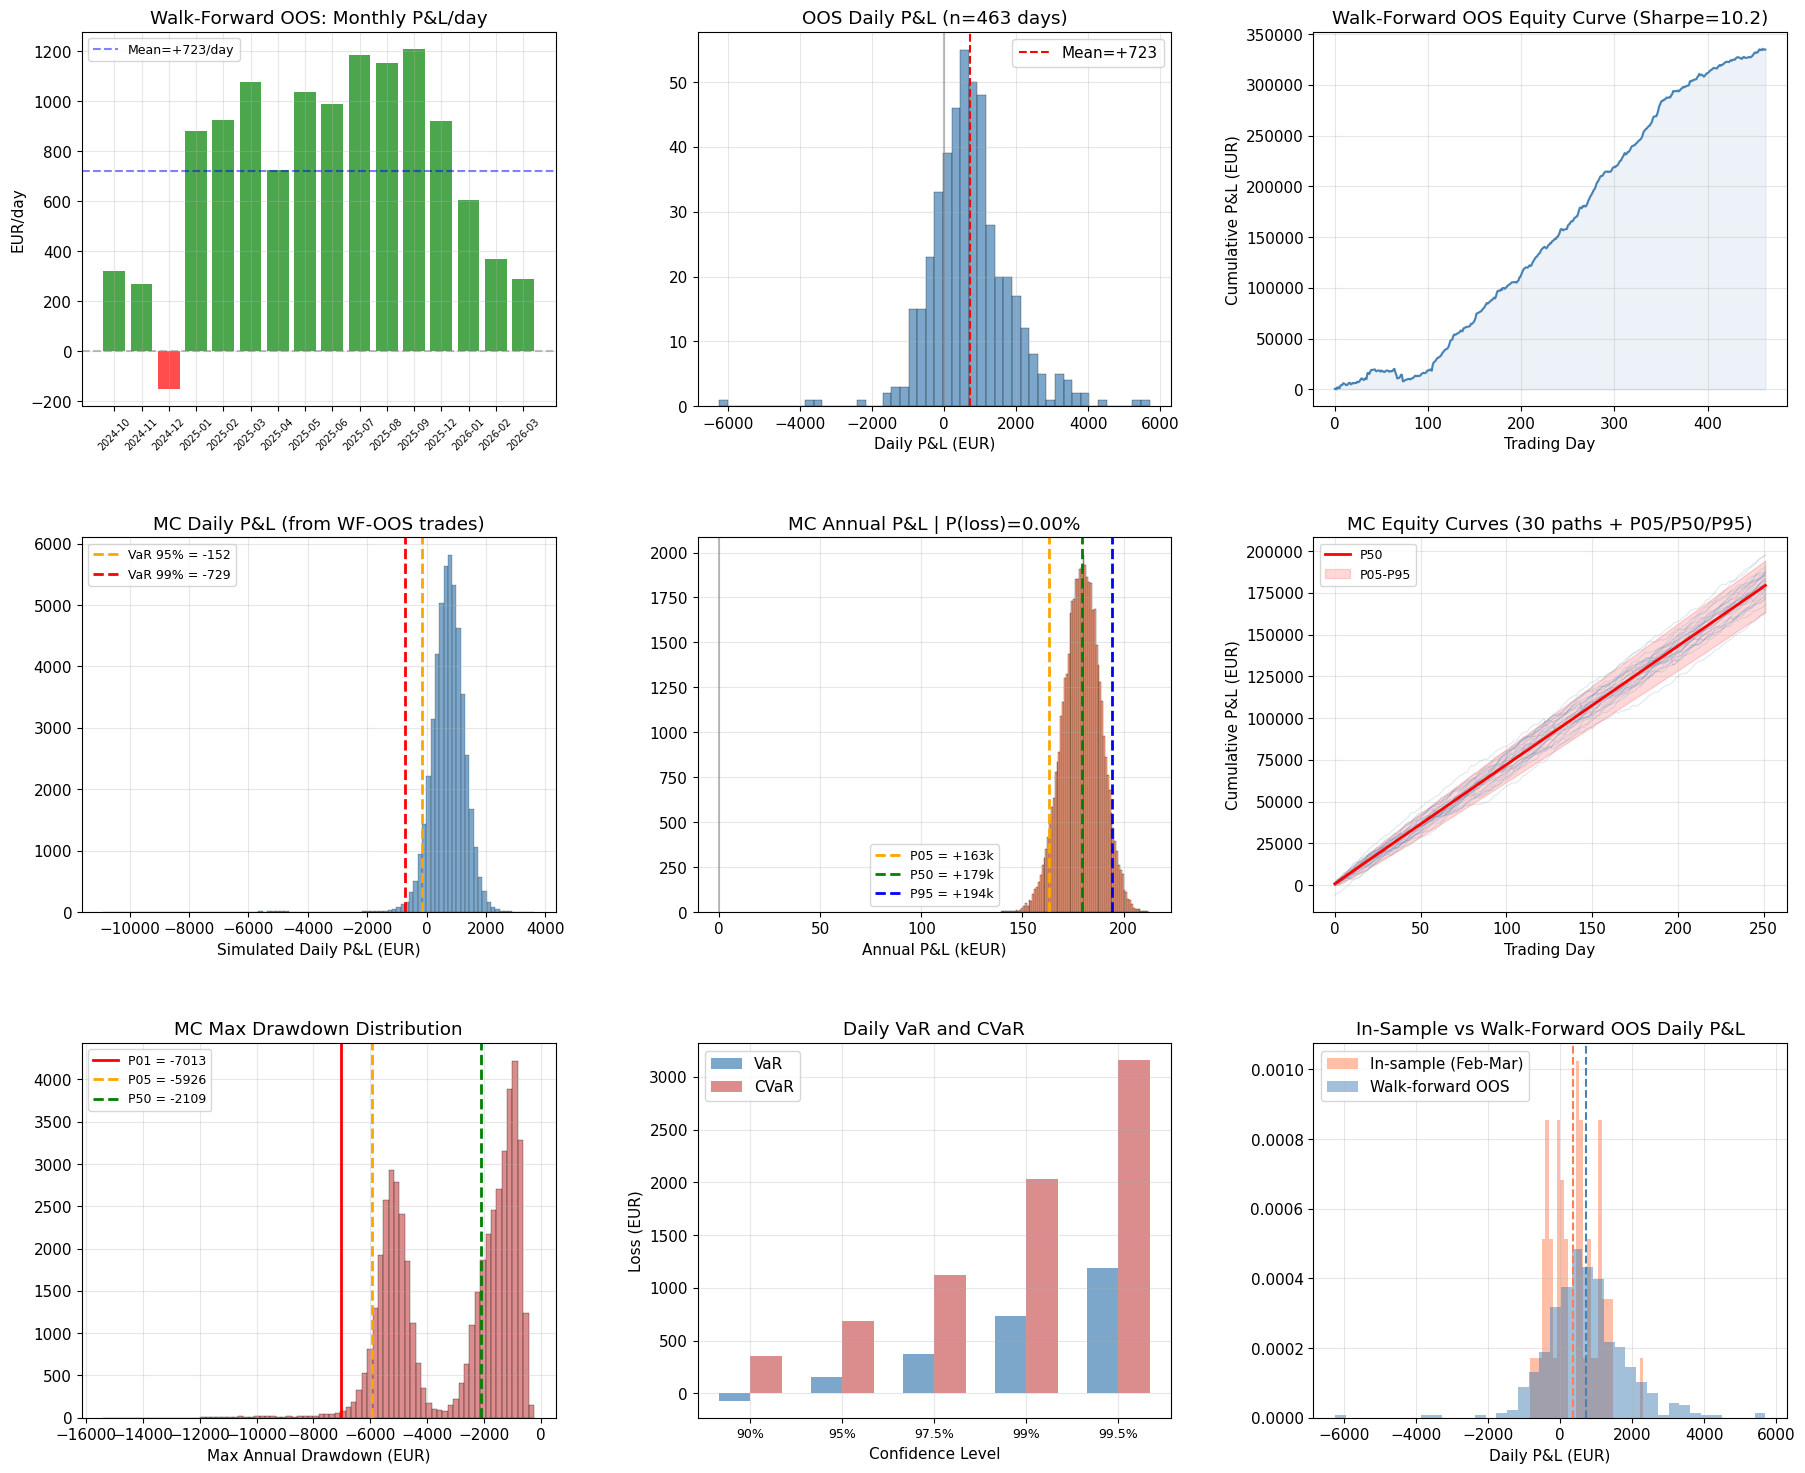
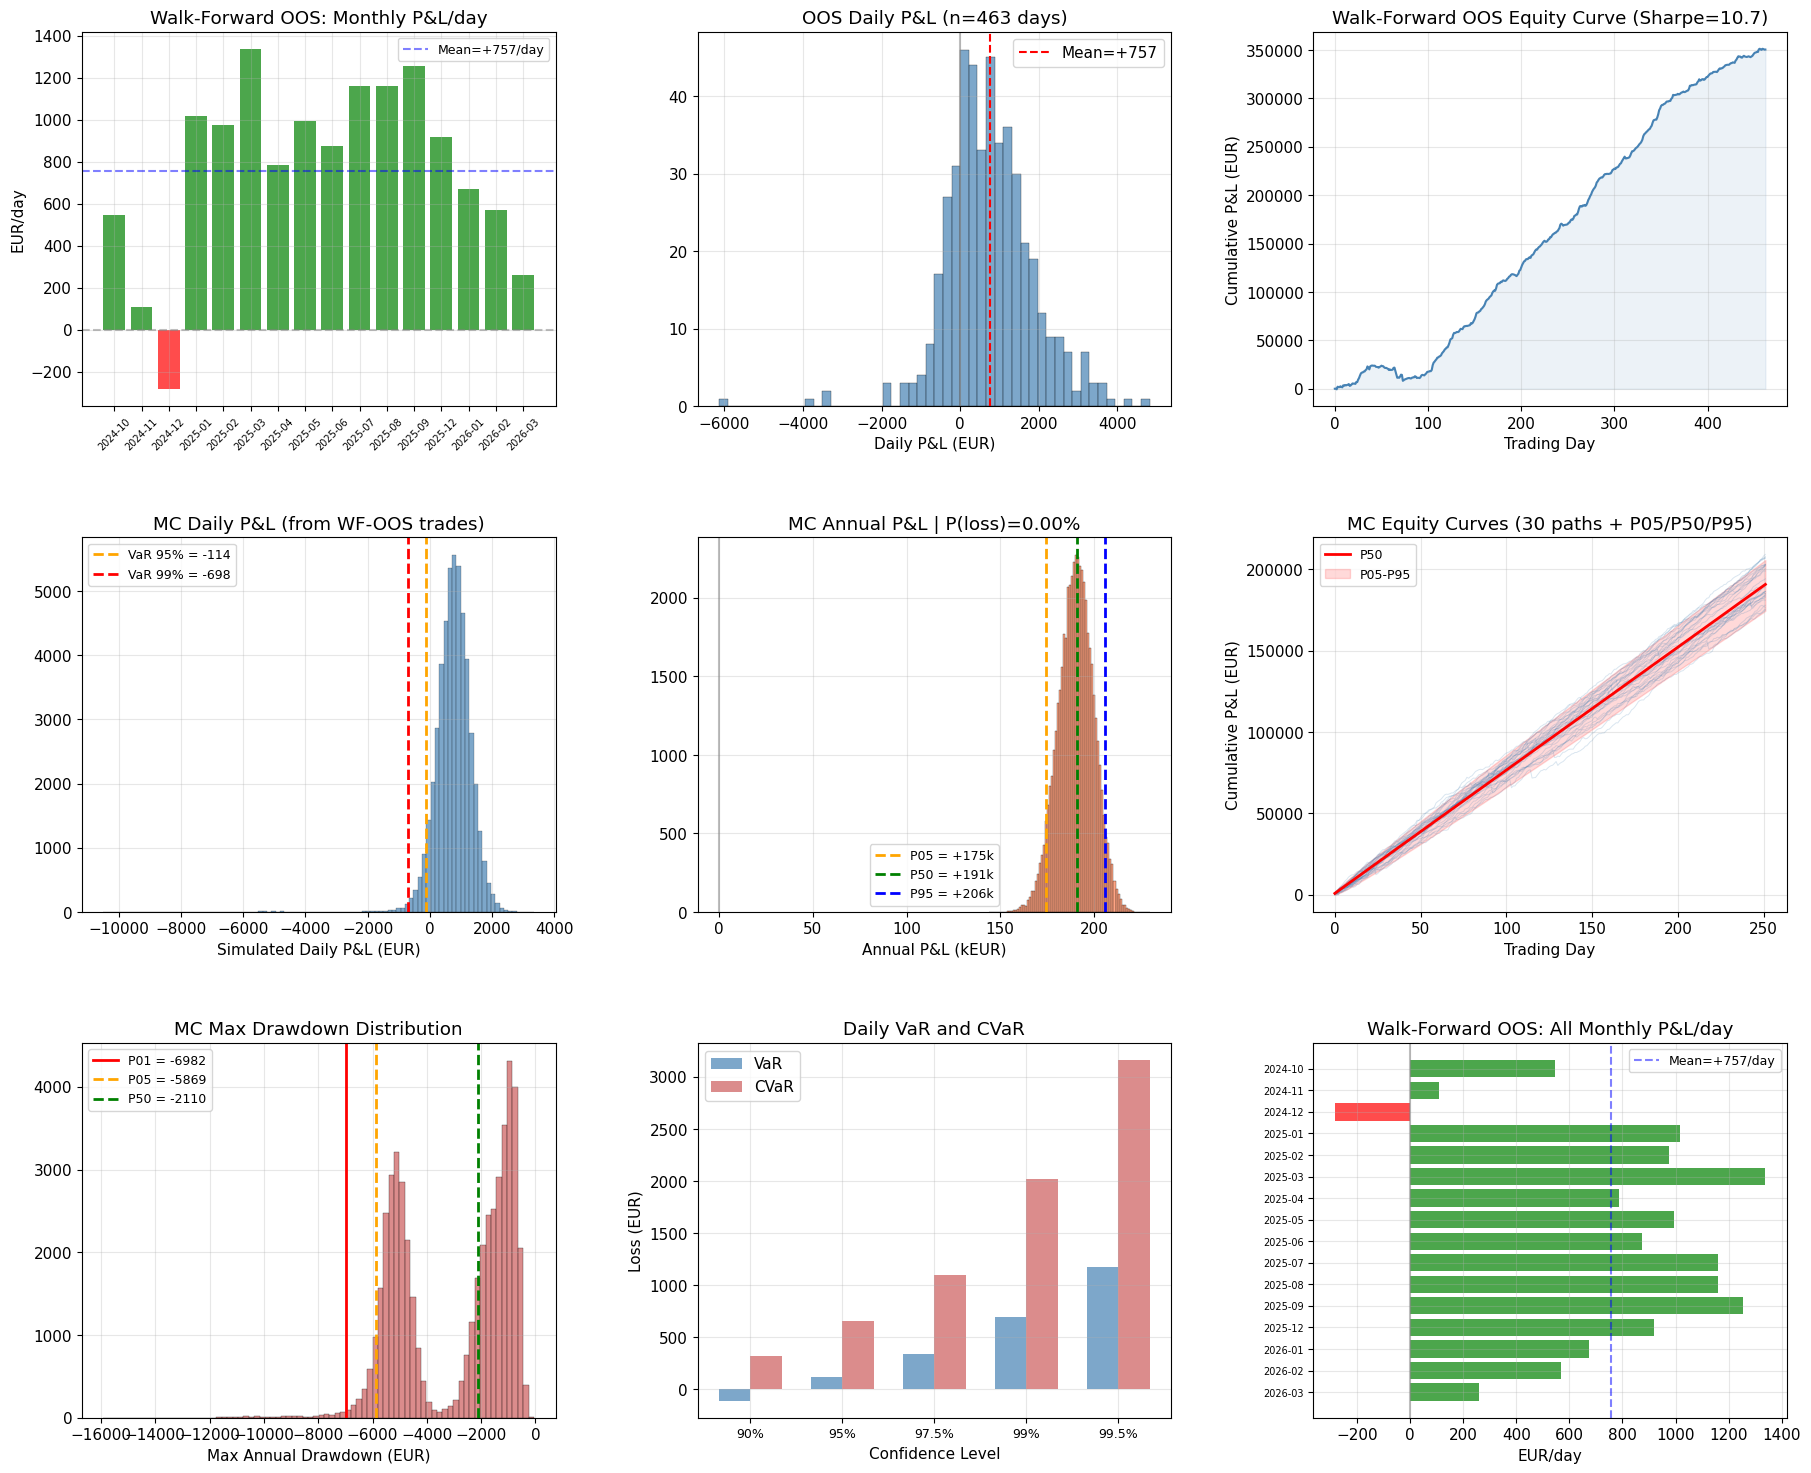
Walk-forward backtest: 52-feature hourly model, +757/day Sharpe 10.7
Updated walkforward_montecarlo.py to use 52 selected features and
hourly-smoothed spread target. 16-month OOS (Oct 2024 - Mar 2026):

- +757 EUR/day (was +620), Sharpe 10.7, 78% winning days
- 15/16 months profitable (only Dec 2024 negative)
- Annual P&L P50: +191k EUR, P(loss) = 0%
- CVaR 99%: -2,018 EUR, Max DD P50: -2,110 EUR

diff --git a/ImbalanceForcastingProd/scripts/analysis/walkforward_montecarlo.py b/ImbalanceForcastingProd/scripts/analysis/walkforward_montecarlo.py
@@ -2,12 +2,13 @@
 Walk-Forward Monte Carlo Risk Analysis
 ========================================
 
-Proper out-of-sample evaluation:
+Proper out-of-sample evaluation of the 2-stage spread model:
   1. Expanding window: train on all data up to month N
   2. Trade month N+1 with bid/ask execution
   3. Collect OOS trades across ALL months
   4. Bootstrap MC from the combined OOS distribution
 
+Model: 52 selected features, hourly-smoothed spread target.
 This avoids the circularity of testing on the same data we selected the strategy from.
 """
 
@@ -45,6 +46,21 @@ LGB_PARAMS = dict(learning_rate=0.05, num_leaves=63, min_child_samples=50,
                   subsample=0.8, colsample_bytree=0.7, reg_alpha=0.1,
                   reg_lambda=1.0, n_estimators=600, verbose=-1)
 
+# 52 selected features (from feature_selection_spread.py)
+SELECTED_FEATURES = [
+    'da_price', 'cloudcover', 'hour_cos', 'idm_vwap_lag', 'da_supply',
+    'da_price_change24h', 'proxy_rmax4', 'temp_forecast_da', 'temp_national_spread',
+    'temp_bratislava', 'load_rmean16', 'nowcast_momentum_h2h3', 'temp_national_change6h',
+    'da_demand', 'temp_surprise_lag', 'proxy_rmean16', 'proxy_range8', 'hour_sin',
+    'spread_da_imb_lag', 'prod_momentum', 'nowcast_pred_rmean4', 'nowcast_momentum_h4h5',
+    'da_flow_cz', 'load_momentum', 'xborder_momentum', 'nowcast_h3', 'radiation_national',
+    'da_net_import', 'proxy_rmean32', 'nowcast_trend_h2_h5', 'dow_sin', 'imb_price_rmean4',
+    'reg_rmean8', 'reg_vol_rmean4', 'proxy_dev_from_hour', 'proxy_yesterday', 'prod_rmean8',
+    'dow_cos', 'solar_surprise_lag', 'nowcast_h5', 'proxy_rmin4', 'nowcast_convergence',
+    'reg_rmean4', 'is_weekend', 'proxy_yesterday_2', 'temp_rmean24h', 'proxy_range4',
+    'proxy_lag12', 'proxy_pos_ratio_4', 'proxy_lag21', 'proxy_lag18', 'damas_fe_rmean4',
+]
+
 # Walk-forward folds: train on everything before, trade the month
 # Start trading from Oct 2024 (need 6+ months of training)
 FOLDS = [
@@ -79,20 +95,29 @@ def main():
     tml.TEST_START = '2026-04-01'
     df_base, feature_cols = build_features(data, LEAD)
 
-    # Join execution + settlement
+    # Validate selected features
+    spread_features = [f for f in SELECTED_FEATURES if f in feature_cols]
+    missing = [f for f in SELECTED_FEATURES if f not in feature_cols]
+    if missing:
+        print(f"[!] Warning: {len(missing)} selected features not found: {missing}")
+
+    # Join execution prices
     ob_exec = pd.read_csv(DATA_DIR / "features" / "orderbook_qh_features.csv",
                           parse_dates=['delivery_start'])
     ob_120 = ob_exec[ob_exec['lead_minutes'] == 120].set_index('delivery_start')[['bid', 'ask', 'spread', 'mid']]
     ob_120 = ob_120[~ob_120.index.duplicated(keep='last')]
     ob_120.columns = ['exec_bid', 'exec_ask', 'exec_spread', 'exec_mid']
 
-    # Use 15-min settlement price (already in df_base as imb_settle_price
-    # from master_imbalance_data via build_features)
     df_base = df_base.join(ob_120, how='left')
     df_base['imb_settlement_price'] = df_base['imb_settle_price']
-    df_base['spread_target'] = df_base['imb_settlement_price'] - df_base['exec_mid']
 
-    print(f"[+] Base data: {len(df_base)} rows, {len(feature_cols)} features")
+    # Hourly-smoothed spread target (matching production script)
+    df_base['hour_ts'] = df_base.index.floor('h')
+    df_base['settle_hourly'] = df_base.groupby('hour_ts')['imb_settlement_price'].transform('mean')
+    df_base['mid_hourly'] = df_base.groupby('hour_ts')['exec_mid'].transform('mean')
+    df_base['spread_target'] = df_base['settle_hourly'] - df_base['mid_hourly']
+
+    print(f"[+] Base data: {len(df_base)} rows, {len(spread_features)} selected features")
 
     # ===== WALK-FORWARD =====
     all_oos_trades = []
@@ -115,12 +140,12 @@ def main():
 
         print(f"  Train: {len(train)}, Test: {len(test)}")
 
-        # Train spread model
+        # Train spread model (52 selected features, hourly-smoothed target)
         model = lgb.LGBMRegressor(objective='quantile', alpha=0.50, **LGB_PARAMS)
-        model.fit(train[feature_cols].values, train['spread_target'].values)
+        model.fit(train[spread_features].values, train['spread_target'].values)
 
         # Predict
-        test['pred'] = model.predict(test[feature_cols].values)
+        test['pred'] = model.predict(test[spread_features].values)
 
         # Trade with threshold=3
         surplus = test['pred'] <= -3
@@ -327,27 +352,23 @@ def main():
     ax.set_title('Daily VaR and CVaR')
     ax.legend()
 
-    # 9. Comparison: in-sample MC vs walk-forward MC
+    # 9. OOS monthly P&L heatmap-style summary
     ax = fig.add_subplot(gs[2, 2])
-    # Load the in-sample result for comparison
-    stk = pd.read_csv(BASE_DIR / "data" / "predictions" / "stacked_test_predictions.csv",
-                       parse_dates=['datetime'], index_col='datetime')
-    pred_is = stk['standalone_spread_pred']
-    trades_is = stk[(pred_is <= -3) | (pred_is >= 3)].copy()
-    trades_is['pnl'] = np.where(
-        trades_is['standalone_spread_pred'] > 0,
-        (trades_is['imb_settlement_price'] - trades_is['exec_ask']) * ENERGY,
-        (trades_is['exec_bid'] - trades_is['imb_settlement_price']) * ENERGY)
-    trades_is = trades_is[trades_is['pnl'].notna()]
-    is_daily = trades_is.groupby(trades_is.index.date)['pnl'].sum()
-
-    ax.hist(is_daily.values, bins=30, alpha=0.5, color='coral', label='In-sample (Feb-Mar)', density=True)
-    ax.hist(oos_daily.values, bins=40, alpha=0.5, color='steelblue', label='Walk-forward OOS', density=True)
-    ax.axvline(is_daily.mean(), color='coral', ls='--')
-    ax.axvline(oos_daily.mean(), color='steelblue', ls='--')
-    ax.set_xlabel('Daily P&L (EUR)')
-    ax.set_title('In-Sample vs Walk-Forward OOS Daily P&L')
-    ax.legend()
+    monthly_pnl = oos.groupby(oos.index.to_period('M'))['pnl'].sum()
+    monthly_days = oos.groupby(oos.index.to_period('M')).apply(
+        lambda x: x.index.normalize().nunique())
+    monthly_ppd = monthly_pnl / monthly_days
+    colors_m = ['green' if v > 0 else 'red' for v in monthly_ppd]
+    ax.barh(range(len(monthly_ppd)), monthly_ppd.values, color=colors_m, alpha=0.7)
+    ax.set_yticks(range(len(monthly_ppd)))
+    ax.set_yticklabels(monthly_ppd.index.astype(str), fontsize=7)
+    ax.invert_yaxis()
+    ax.axvline(0, color='gray', ls='-', alpha=0.5)
+    ax.axvline(oos_daily.mean(), color='blue', ls='--', alpha=0.5,
+               label=f'Mean={oos_daily.mean():+.0f}/day')
+    ax.set_xlabel('EUR/day')
+    ax.set_title('Walk-Forward OOS: All Monthly P&L/day')
+    ax.legend(fontsize=9)
 
     fig.savefig(PLOT_DIR / "02_walkforward_montecarlo.png", bbox_inches='tight')
     plt.close(fig)
